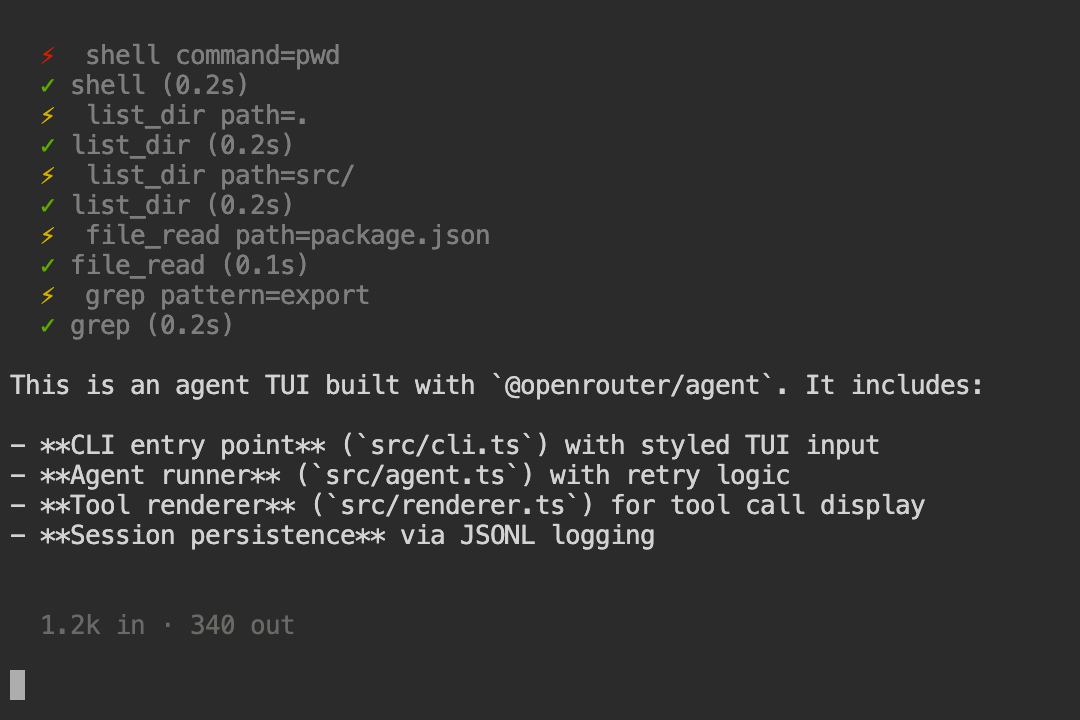
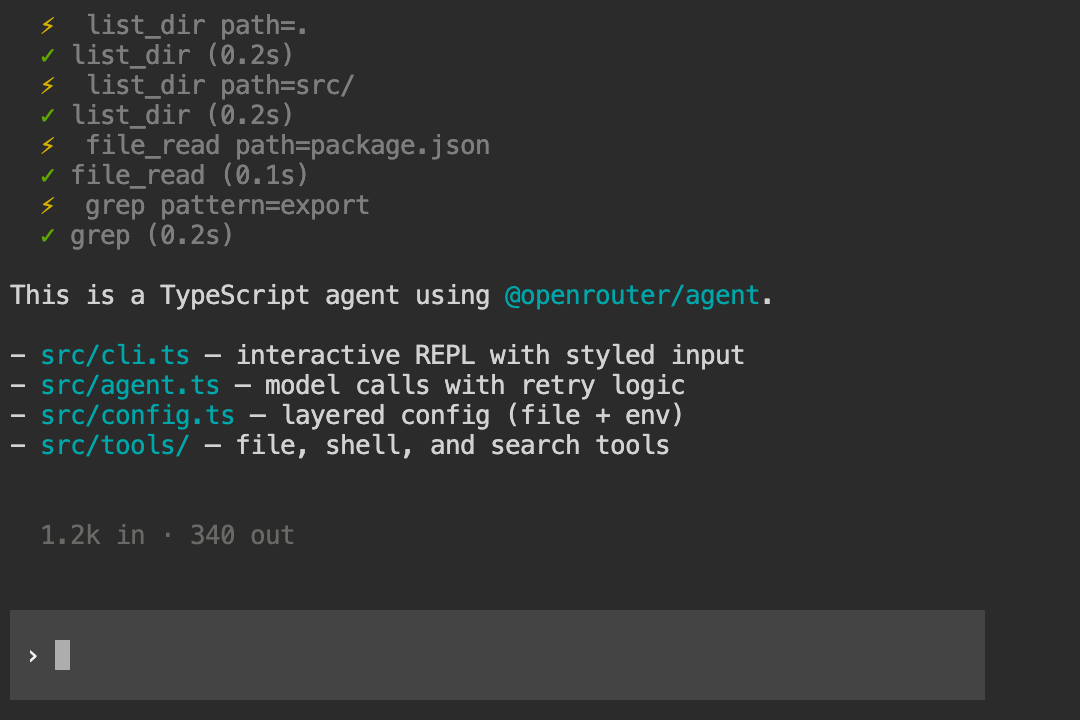
refactor(create-agent-tui): use real CLI for screenshots, add --demo flag
Replace 4 separate demo scripts with a --demo flag on the real CLI that
replays scripted events without calling the model. Screenshots now capture
the actual CLI experience — banner, input styles, tool displays, loaders —
all with retina quality (deviceScaleFactor: 2).

- Add --demo mode to cli.ts with scripted tool call + text replay
- Add --loader-style flag for loader customization
- Delete demo-tools.ts, demo-input.ts, demo-banner.ts, demo-loader.ts
- Simplify screenshot-demos.ts to just CLI flag combinations
- Regenerate all 10 screenshots at 2x retina quality
- Add banner.png screenshot to README hero position

Changed region(s): [[0.0, 0.0, 0.8556, 0.7639], [0.0, 0.825, 0.9167, 0.9778], [0.7333, 0.5194, 0.9167, 0.55]]

diff --git a/skills/create-agent-tui/sample/src/cli.ts b/skills/create-agent-tui/sample/src/cli.ts
@@ -153,14 +153,17 @@ async function main() {
   const argModel = parseArg('--model');
   const argInput = parseArg('--input') as DisplayConfig['inputStyle'] | undefined;
   const argToolDisplay = parseArg('--tool-display') as DisplayConfig['toolDisplay'] | undefined;
+  const argLoaderStyle = parseArg('--loader-style') as import('./config.js').LoaderConfig['style'] | undefined;
+  const demoMode = process.argv.includes('--demo');
 
   const overrides: Record<string, any> = {};
   if (argBanner) overrides.name = argBanner;
   if (argModel) overrides.model = argModel;
-  if (argInput || argToolDisplay) {
+  if (argInput || argToolDisplay || argLoaderStyle) {
     overrides.display = {
       ...(argInput && { inputStyle: argInput }),
       ...(argToolDisplay && { toolDisplay: argToolDisplay }),
+      ...(argLoaderStyle && { loader: { text: 'Working', style: argLoaderStyle } }),
     };
   }
 
@@ -206,6 +209,66 @@ async function main() {
           rl.once('line', resolve);
         });
     }
+  }
+
+  async function runDemo() {
+    const sleep = (ms: number) => new Promise((r) => setTimeout(r, ms));
+    const emit = (e: import('./agent.js').AgentEvent) => renderer.handle(e);
+
+    if (config.display.inputStyle === 'block') {
+      process.stdout.write(`${DIM}> what's in this repo${RESET}\n`);
+      const cwd = process.cwd().replace(process.env.HOME ?? '', '~');
+      process.stdout.write(`\x1b[K  ${DIM}${cwd}${RESET}\n`);
+    }
+
+    const loader = new Loader(config.display.loader);
+    process.stdout.write('\n');
+    loader.start();
+    await sleep(200);
+    loader.stop();
+
+    emit({ type: 'text', delta: "I'll explore the repository structure.\n\n" });
+    renderer.endTurn();
+
+    await sleep(100);
+    emit({ type: 'tool_call', name: 'shell', callId: 'c1', args: { command: 'pwd' } });
+    await sleep(200);
+    emit({ type: 'tool_result', name: 'shell', callId: 'c1', output: '/home/user/my-agent' });
+
+    await sleep(100);
+    emit({ type: 'tool_call', name: 'list_dir', callId: 'c2', args: { path: '.' } });
+    await sleep(150);
+    emit({ type: 'tool_result', name: 'list_dir', callId: 'c2', output: 'src/ package.json tsconfig.json .env' });
+
+    await sleep(100);
+    emit({ type: 'tool_call', name: 'list_dir', callId: 'c2b', args: { path: 'src/' } });
+    await sleep(150);
+    emit({ type: 'tool_result', name: 'list_dir', callId: 'c2b', output: 'cli.ts agent.ts config.ts tools/' });
+
+    await sleep(100);
+    emit({ type: 'tool_call', name: 'file_read', callId: 'c4', args: { path: 'package.json' } });
+    await sleep(100);
+    emit({ type: 'tool_result', name: 'file_read', callId: 'c4', output: '{"name":"my-agent","dependencies":{"@openrouter/agent":"^0.4"}}' });
+
+    await sleep(100);
+    emit({ type: 'tool_call', name: 'grep', callId: 'c5', args: { pattern: 'export' } });
+    await sleep(200);
+    emit({ type: 'tool_result', name: 'grep', callId: 'c5', output: 'src/agent.ts:export async function runAgent' });
+
+    renderer.endTurn();
+
+    await sleep(100);
+    emit({ type: 'text', delta: '\nThis is a TypeScript agent using `@openrouter/agent`.\n\n' });
+    emit({ type: 'text', delta: '- `src/cli.ts` — interactive REPL with styled input\n' });
+    emit({ type: 'text', delta: '- `src/agent.ts` — model calls with retry logic\n' });
+    emit({ type: 'text', delta: '- `src/config.ts` — layered config (file + env)\n' });
+    emit({ type: 'text', delta: '- `src/tools/` — file, shell, and search tools\n' });
+    renderer.endTurn();
+
+    console.log();
+    console.log(`${GRAY}  1.2k in · 340 out${RESET}\n`);
+
+    await getInput();
   }
 
   async function loop() {
@@ -264,7 +327,11 @@ async function main() {
     }
   }
 
-  loop();
+  if (demoMode) {
+    runDemo();
+  } else {
+    loop();
+  }
 }
 
 main();

diff --git a/skills/create-agent-tui/sample/src/screenshot-demos.ts b/skills/create-agent-tui/sample/src/screenshot-demos.ts
@@ -5,11 +5,13 @@ import { resolve } from 'path';
 const SAMPLE_DIR = resolve(import.meta.dirname, '..');
 const SCREENSHOTS_DIR = resolve(SAMPLE_DIR, 'screenshots');
 const PORT_BASE = 7750;
+let portCounter = 0;
 
-async function captureDemo(name: string, script: string, args: string[], port: number): Promise<void> {
+async function capture(name: string, cliArgs: string[]): Promise<void> {
+  const port = PORT_BASE + (portCounter++);
   const ttyd = spawn('ttyd', [
     '--port', String(port), '--writable',
-    'npx', 'tsx', script, ...args,
+    'npx', 'tsx', 'src/cli.ts', ...cliArgs,
   ], { cwd: SAMPLE_DIR, stdio: 'ignore' });
 
   await new Promise((r) => setTimeout(r, 3000));
@@ -32,24 +34,29 @@ async function captureDemo(name: string, script: string, args: string[], port: n
 }
 
 async function main() {
-  const TOOL_STYLES = ['emoji', 'grouped', 'minimal'] as const;
-  const INPUT_STYLES = ['block', 'bordered', 'plain'] as const;
+  console.log('Banner:');
+  process.stdout.write('  capturing banner...');
+  await capture('banner', ['--model', 'anthropic/claude-sonnet-4.6']);
 
-  console.log('Tool display styles:');
-  for (let i = 0; i < TOOL_STYLES.length; i++) {
-    const style = TOOL_STYLES[i];
+  console.log('\nTool display styles:');
+  for (const style of ['emoji', 'grouped', 'minimal'] as const) {
     process.stdout.write(`  capturing ${style}...`);
-    await captureDemo(`tool-display-${style}`, 'src/demo-tools.ts', [style], PORT_BASE + i);
+    await capture(`tool-display-${style}`, ['--demo', '--tool-display', style]);
   }
 
   console.log('\nInput styles:');
-  for (let i = 0; i < INPUT_STYLES.length; i++) {
-    const style = INPUT_STYLES[i];
+  for (const style of ['block', 'bordered', 'plain'] as const) {
     process.stdout.write(`  capturing ${style}...`);
-    await captureDemo(`input-style-${style}`, 'src/demo-input.ts', [style], PORT_BASE + 10 + i);
+    await capture(`input-style-${style}`, ['--input', style]);
   }
 
-  console.log('\nDone! 6 screenshots generated.');
+  console.log('\nLoader styles:');
+  for (const style of ['gradient', 'spinner', 'minimal'] as const) {
+    process.stdout.write(`  capturing ${style}...`);
+    await capture(`loader-${style}`, ['--demo', '--loader-style', style]);
+  }
+
+  console.log('\nDone! 10 screenshots generated.');
 }
 
 main();

diff --git a/skills/create-agent-tui/README.md b/skills/create-agent-tui/README.md
@@ -1,6 +1,8 @@
 # Create Agent TUI
 
-A skill for AI coding agents (Claude Code, Cursor, etc.) that scaffolds a complete agent TUI in TypeScript — like `create-react-app` for terminal agents. Tell your coding agent what kind of agent you want, and it generates a runnable project targeting [OpenRouter](https://openrouter.ai) with a fully customizable terminal interface, tools, and configuration.
+A skill for AI coding agents (Claude Code, Cursor, etc.) that scaffolds a complete agent TUI in TypeScript — like `create-react-app` but for terminal agents. Tell your coding agent what kind of agent you want, and it generates a runnable project that works with any model and gives you a fully customizable terminal interface, tools, and configuration.
+
+![My Harness banner](sample/screenshots/banner.png)
 
 ## Quickstart
 
@@ -39,6 +41,8 @@ Choose how tool calls appear during agent execution. Set `display.toolDisplay` i
 
 ![Minimal tool display](sample/screenshots/tool-display-minimal.png)
 
+**Custom** — describe what you want directly!
+
 There's also a **hidden** mode that suppresses tool output entirely.
 
 ### Input styles
@@ -63,6 +67,8 @@ Three input styles are available via `display.inputStyle` or `--input`:
 
 ![Plain input style](sample/screenshots/input-style-plain.png)
 
+**Custom** — describe what you want directly!
+
 The `block` style automatically detects your terminal's background color and alpha-blends a subtle tint over it, so it looks right on both dark and light themes.
 
 ### Loader animations
@@ -81,6 +87,8 @@ Three loader styles shown while waiting for the model. Set `display.loader.style
 
 ![Minimal loader](sample/screenshots/loader-minimal.png)
 
+**Custom** — describe what you want directly!
+
 ### ASCII banner
 
 Enable `showBanner` to display a custom ASCII art logo on startup. The skill generates block-letter art for your project name using the `█` character, colored and sized to fit a 60-column terminal. The text-only fallback banner shows your agent name and model in a bordered box.
@@ -89,14 +97,13 @@ Enable `showBanner` to display a custom ASCII art logo on startup. The skill gen
 
 Building your own agent TUI makes sense when:
 
+- **You want to customize the look** — create a fun UI or a custom one for your project/team!
 - **You need custom tools** — your agent interacts with your own APIs, databases, or domain-specific systems that generic agents can't reach
 - **You want control over the loop** — you need custom stop conditions, approval flows, cost limits, or model selection logic that hosted agents don't expose
 - **You're shipping a product** — the agent is part of your application, not a developer tool, and you need to own the entry point (CLI, API server, embedded)
 - **You want to learn** — understanding how agents work at the tool-execution level makes you better at using and debugging them
 
-You probably *don't* need this if you're just using Claude Code or Cursor as-is — those already have production TUIs. This is for when you need to build your own.
-
-## What you can customize
+## Features you can customize
 
 The skill presents an interactive checklist when invoked. You pick what you need:
 
